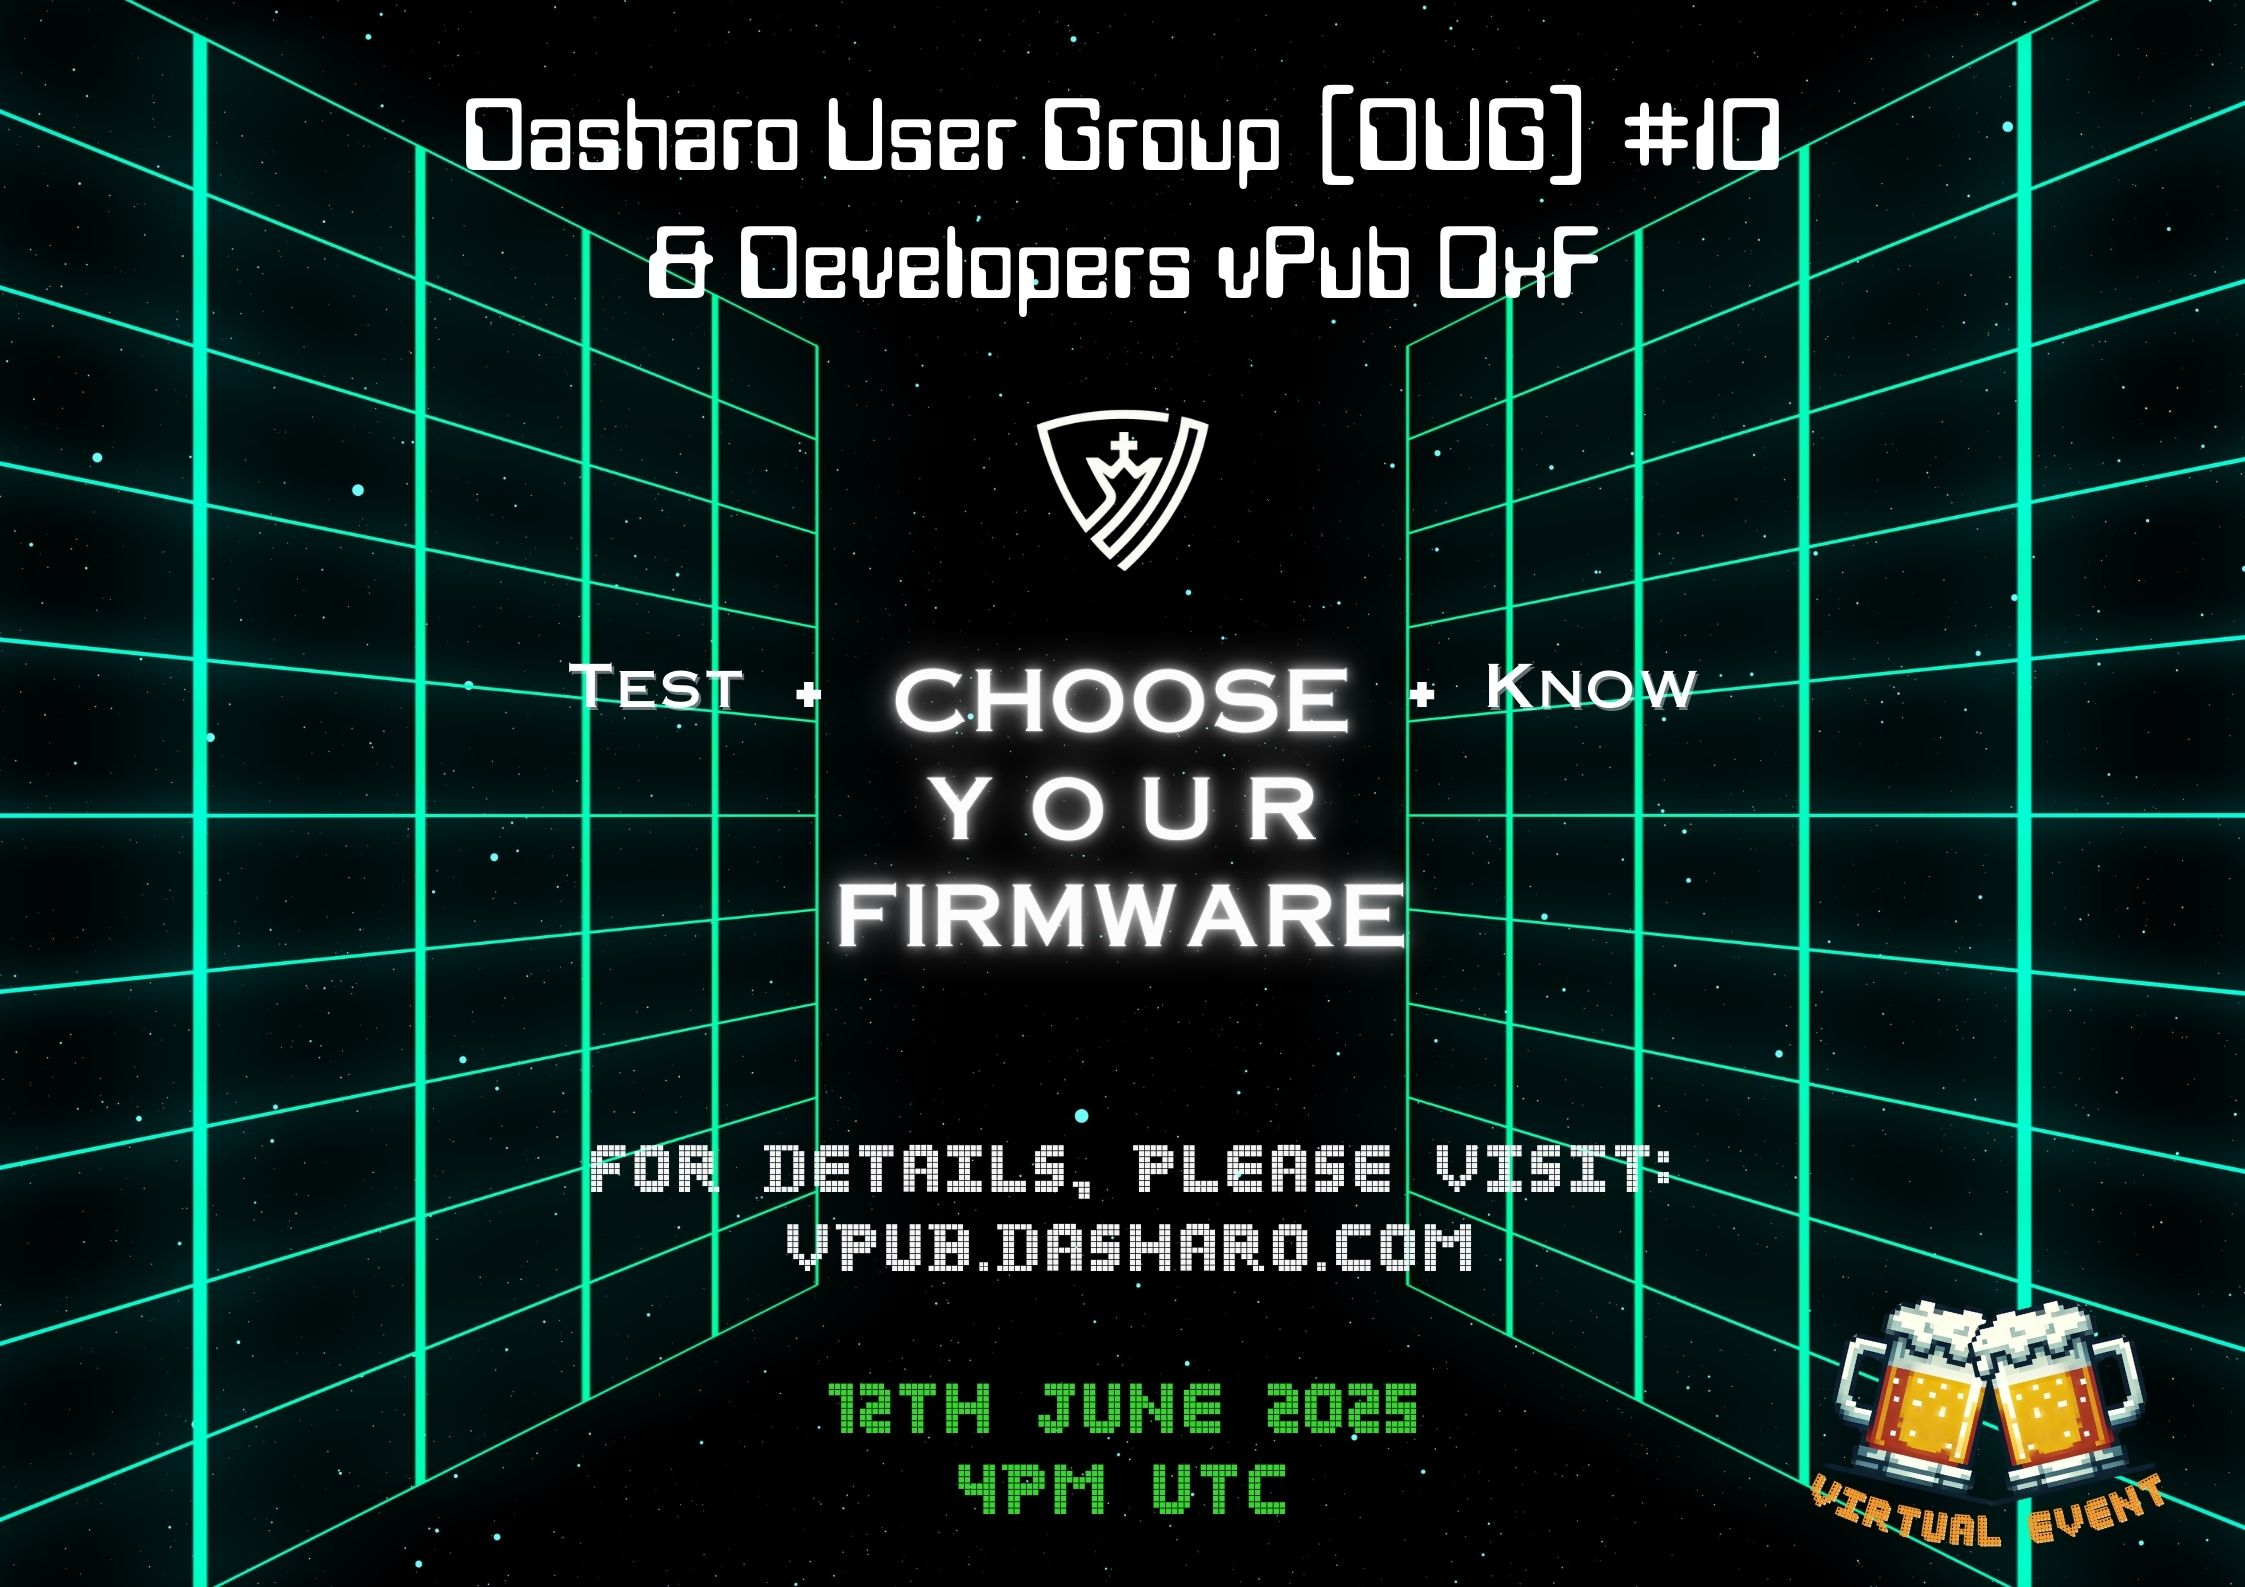
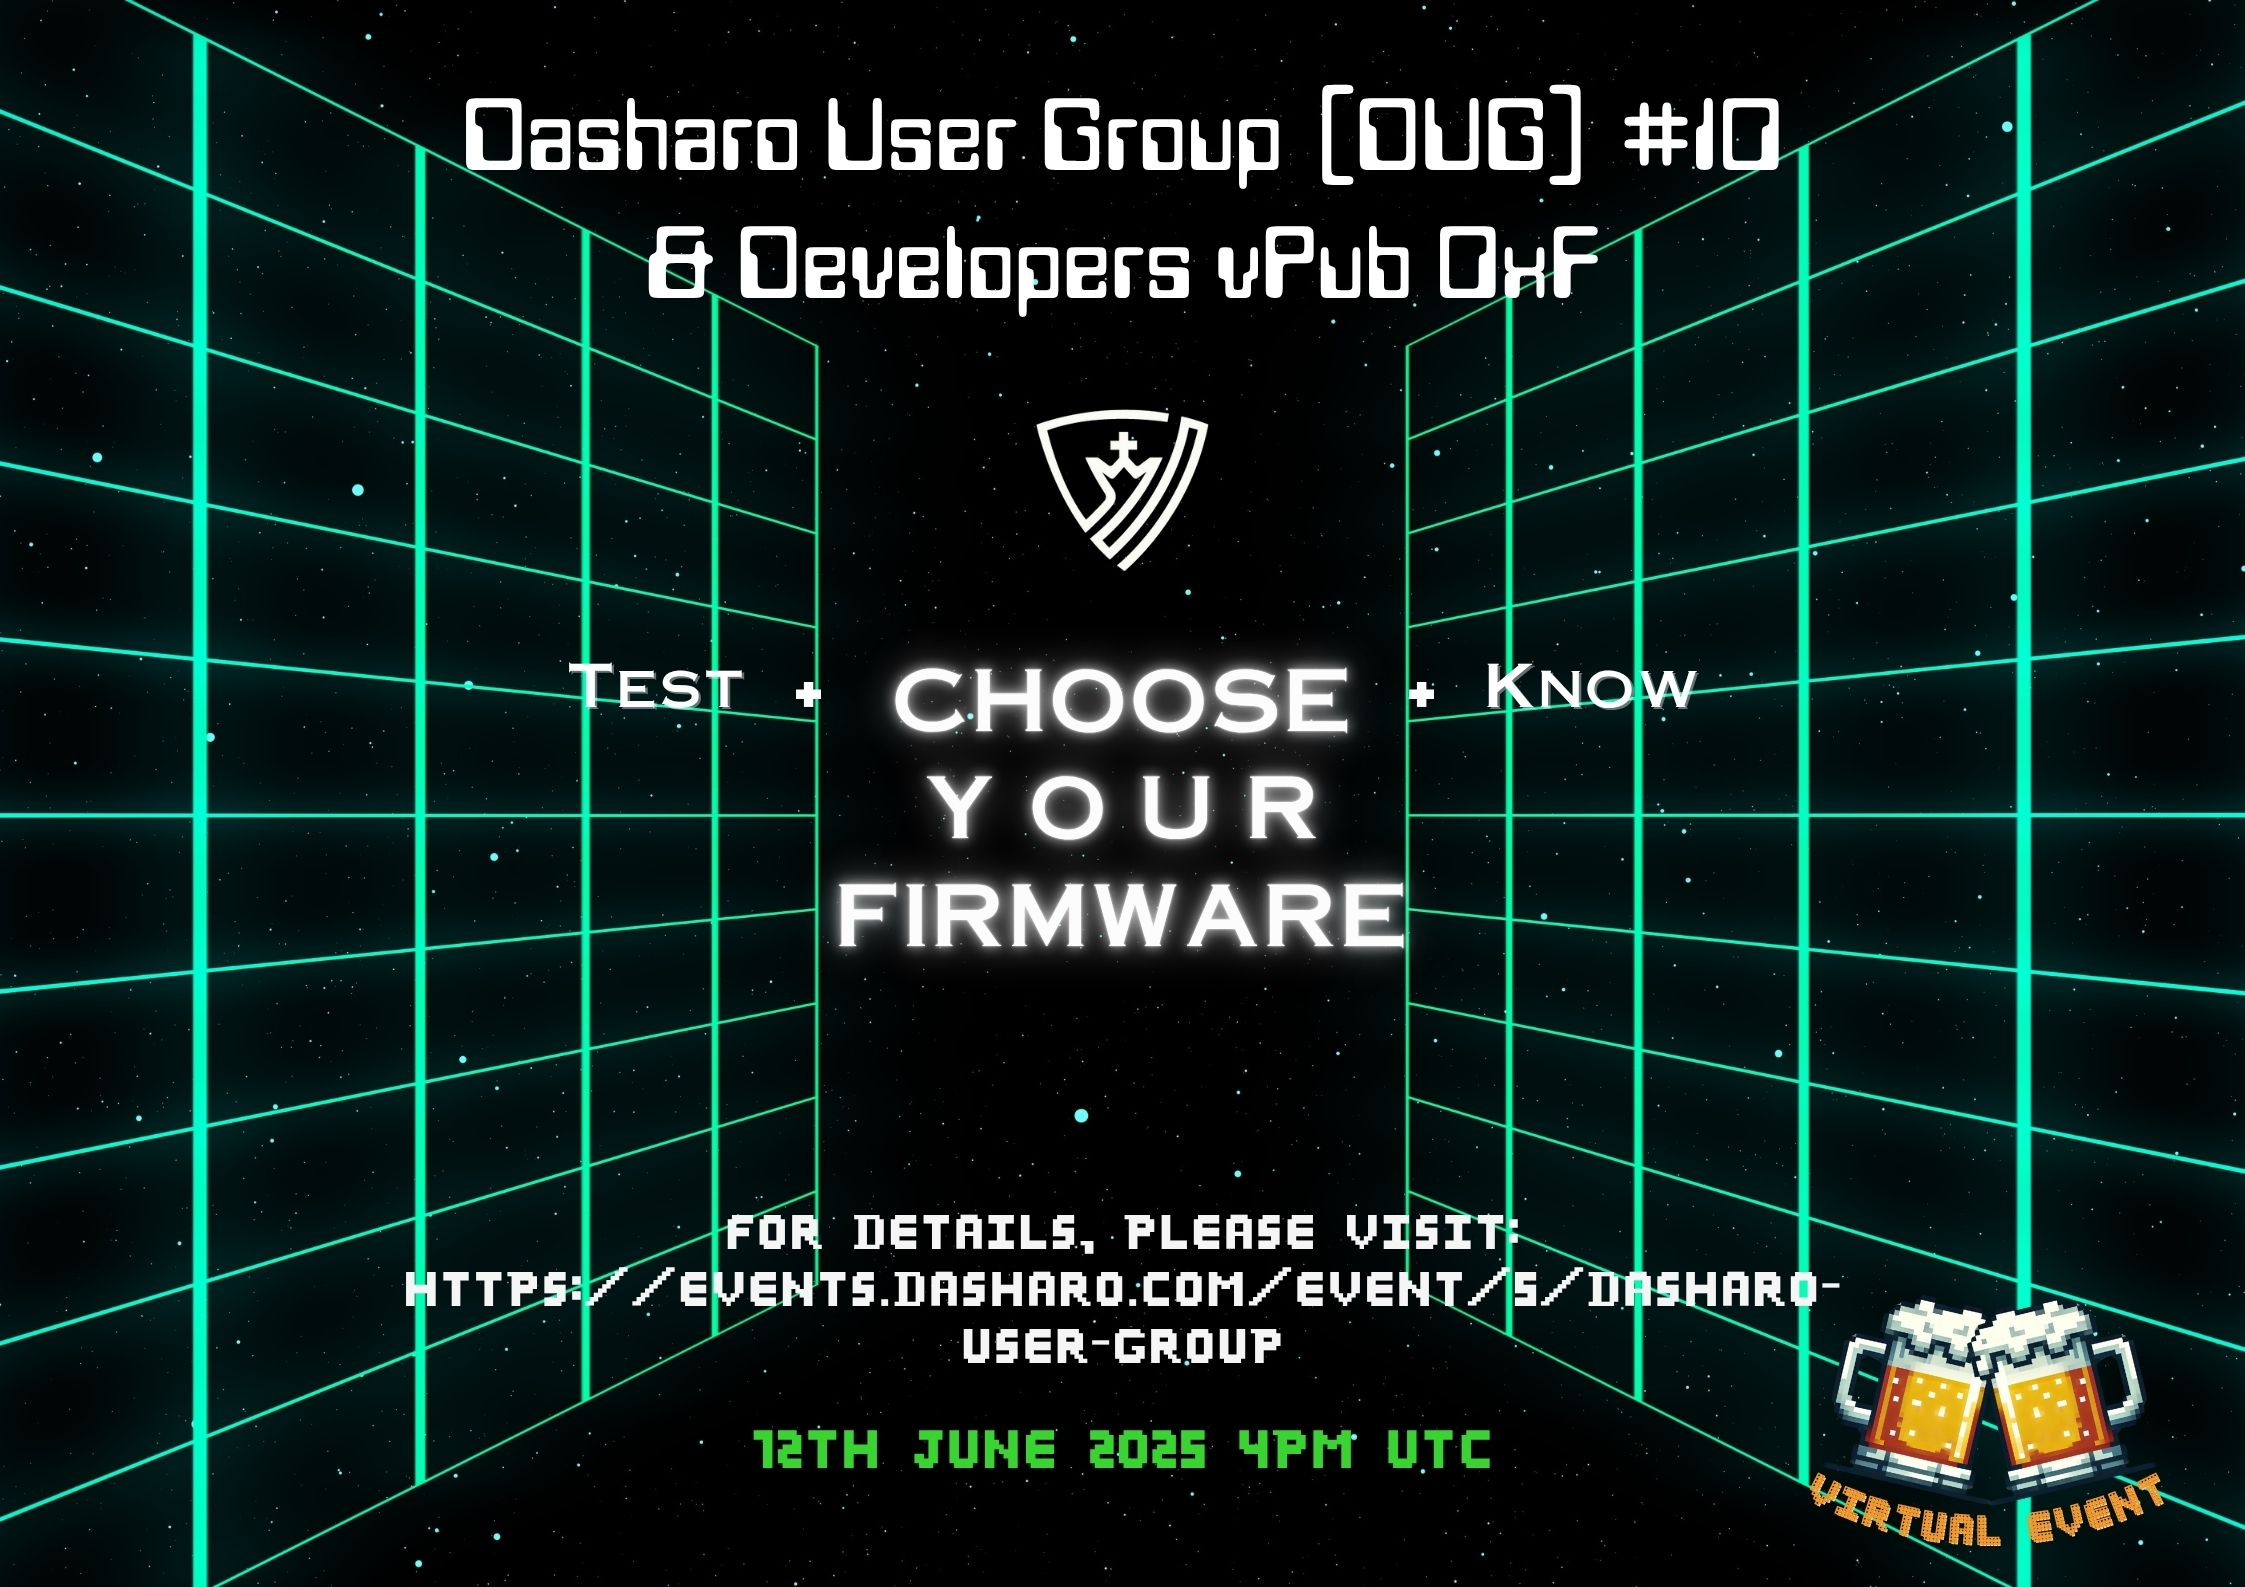
events.md: upcoming events update

diff --git a/content/events.md b/content/events.md
@@ -26,20 +26,20 @@ all_events:
     - title: "[**2025-08-05** Zarhus Developers Meetup 0x2](https://events.dasharo.com/event/6/zarhus-developers-meetup-0x2)"
       status: "upcoming"
       date: "05.08.2025"
-      event_poster: ""
+      event_poster: "images/events/2025/zarhus-developers-0x2.jpg"
       additional_info: |
 
-    - title: "[**2025-09-18** Dasharo User Group 11 & Developers vPub 0x10](https://vpub.dasharo.com/e/19/dasharo-user-group-11)"
+    - title: "[**2025-09-18** Dasharo User Group 11 & Developers vPub 0x10](https://events.dasharo.com/event/8/dasharo-user-group-11)"
       status: "upcoming"
       date: "18.09.2025"
       event_poster: "images/events/2025/dug_11.jpg"
       additional_info: |
-        ### Dasharo User Group #11 **[Official Page](https://vpub.dasharo.com/e/19/dasharo-user-group-11)**<br><br>
+        ### Dasharo User Group #11 **[Official Page](https://events.dasharo.com/event/8/dasharo-user-group-11)**<br><br>
 
     - title: "[**2025-09-26-28** Qubes OS Summit 2025](https://events.dasharo.com/event/2/qubes-os-summit-2025)"
       status: "upcoming"
-      date: "To be announced"
-      event_poster: ""
+      date: "26-28.09.2025"
+      event_poster: "images/events/2025/qubes-summit-2025.jpg"
       additional_info: |
         ### Qubes OS Summit 2025 **[Official Page](https://events.dasharo.com/event/2/qubes-os-summit-2025)**<br><br>
 
@@ -49,12 +49,12 @@ all_events:
       event_poster: ""
       additional_info: |
 
-    - title: "[**2025-12-11** Dasharo User Group 12 & Developers vPub 0x11](https://vpub.dasharo.com/e/20/dasharo-user-group-12)"
+    - title: "[**2025-12-11** Dasharo User Group 12 & Developers vPub 0x11](https://events.dasharo.com/event/9/dasharo-user-group-12)"
       status: "upcoming"
       date: "11.12.2025"
       event_poster: "images/events/2025/dug_12.jpg"
       additional_info: |
-        ### Dasharo User Group #12 **[Official Page](https://vpub.dasharo.com/e/20/dasharo-user-group-12)**<br><br>
+        ### Dasharo User Group #12 **[Official Page](https://events.dasharo.com/event/9/dasharo-user-group-12)**<br><br>
 
   - year: "20**25**"
     events:
